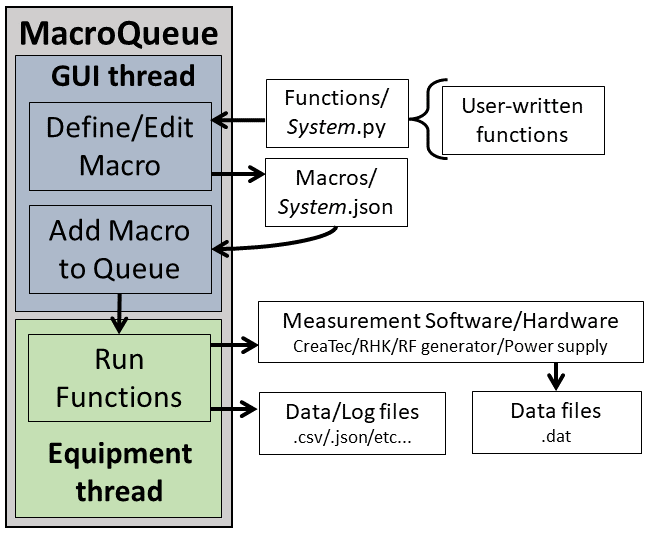
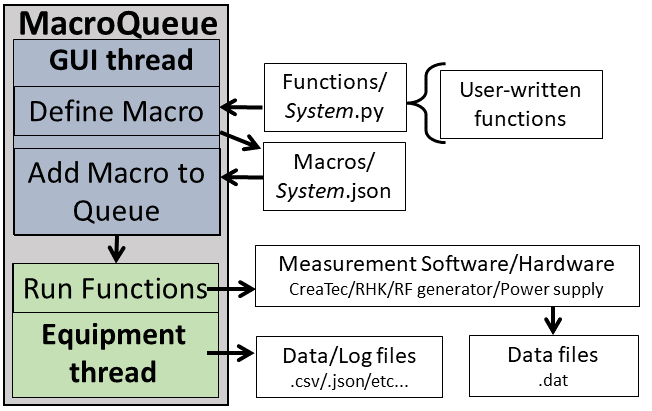
Compressed Fig3

Changed region(s): [[0.0, 0.0, 0.9816, 0.9927], [0.8282, 0.9051, 0.8896, 0.9635]]

diff --git a/docs_src/Paper/paper.md b/docs_src/Paper/paper.md
@@ -26,7 +26,7 @@ Scanning Probe Microscopy (SPM) operators often use several instruments to fully
 
 Users can easily add python functions to control new and existing auxiliary equipment, in addition to new and existing SPM systems as long as they can be controlled via python.  Although any arbitary python function can be added, the base functions were created with the functional programming paradigm in mind, so the functions are small and each perform a single task.  For example, the function *Set RF Frequency*, changes the frequency on the RF generator and records the new value.  This allows the functions to be reused for many types of measurements.
 
-![The general procedure for using MacroQueue.\label{fig:GeneralProcedure}](Figure3.PNG =x50)
+![The general procedure for using MacroQueue.\label{fig:GeneralProcedure}](Figure3.PNG =x250)
 
 The functions are grouped into a macro for each type of measurement.  Macros are added to a queue with different values for each parameter, e.g. bias, magnetic field, etc., to perform measurements throughout the parameter space.  Each measurement is performed consecutively on a seperate thread to allow measurements that are still in the queue to be modified.
 These features allow users to easily control several instruments in sync, add new instruments to a system, and perform long series of measurements with minimal input. 
